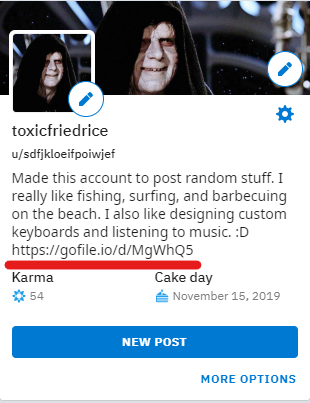
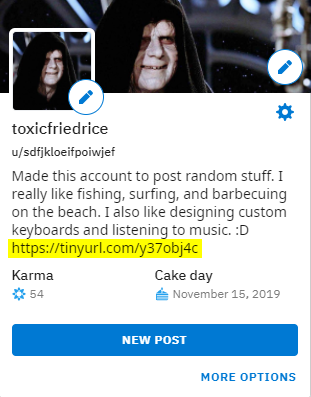
fixed a link

diff --git a/README.md b/README.md
@@ -85,15 +85,15 @@ None.
 
 ### Solution
 
-When you search for ```u/sdfjkloeifpoiwkef``` on Reddit, you will see their profile. There are a bunch of images that are posted on the profile by the user. They are there to throw you off.
+When you search for ```u/sdfjkloeifpoiwjef``` on Reddit, you will see their profile. There are a bunch of images that are posted on the profile by the user. They are there to throw you off.
 
-Look at the user description box under the profile image and you will see a link there. The link is ```https://gofile.io/d/MgWhQ5``` -- it is a GoFile link to an image.
+Look at the user description box under the profile image and you will see a link there. The link is ```https://tinyurl.com/y37obj4c``` -- it is a GoFile link to an image.
 
 |Location of the GoFile link|
 |-----------|
 |![](Files/d2_link_loc.png)|
 
-|Image at the GoFile link|
+|Image at the TinyURL link|
 |-----------|
 |![corkbottle.jpg](Files/corkbottle.jpg)|
 
